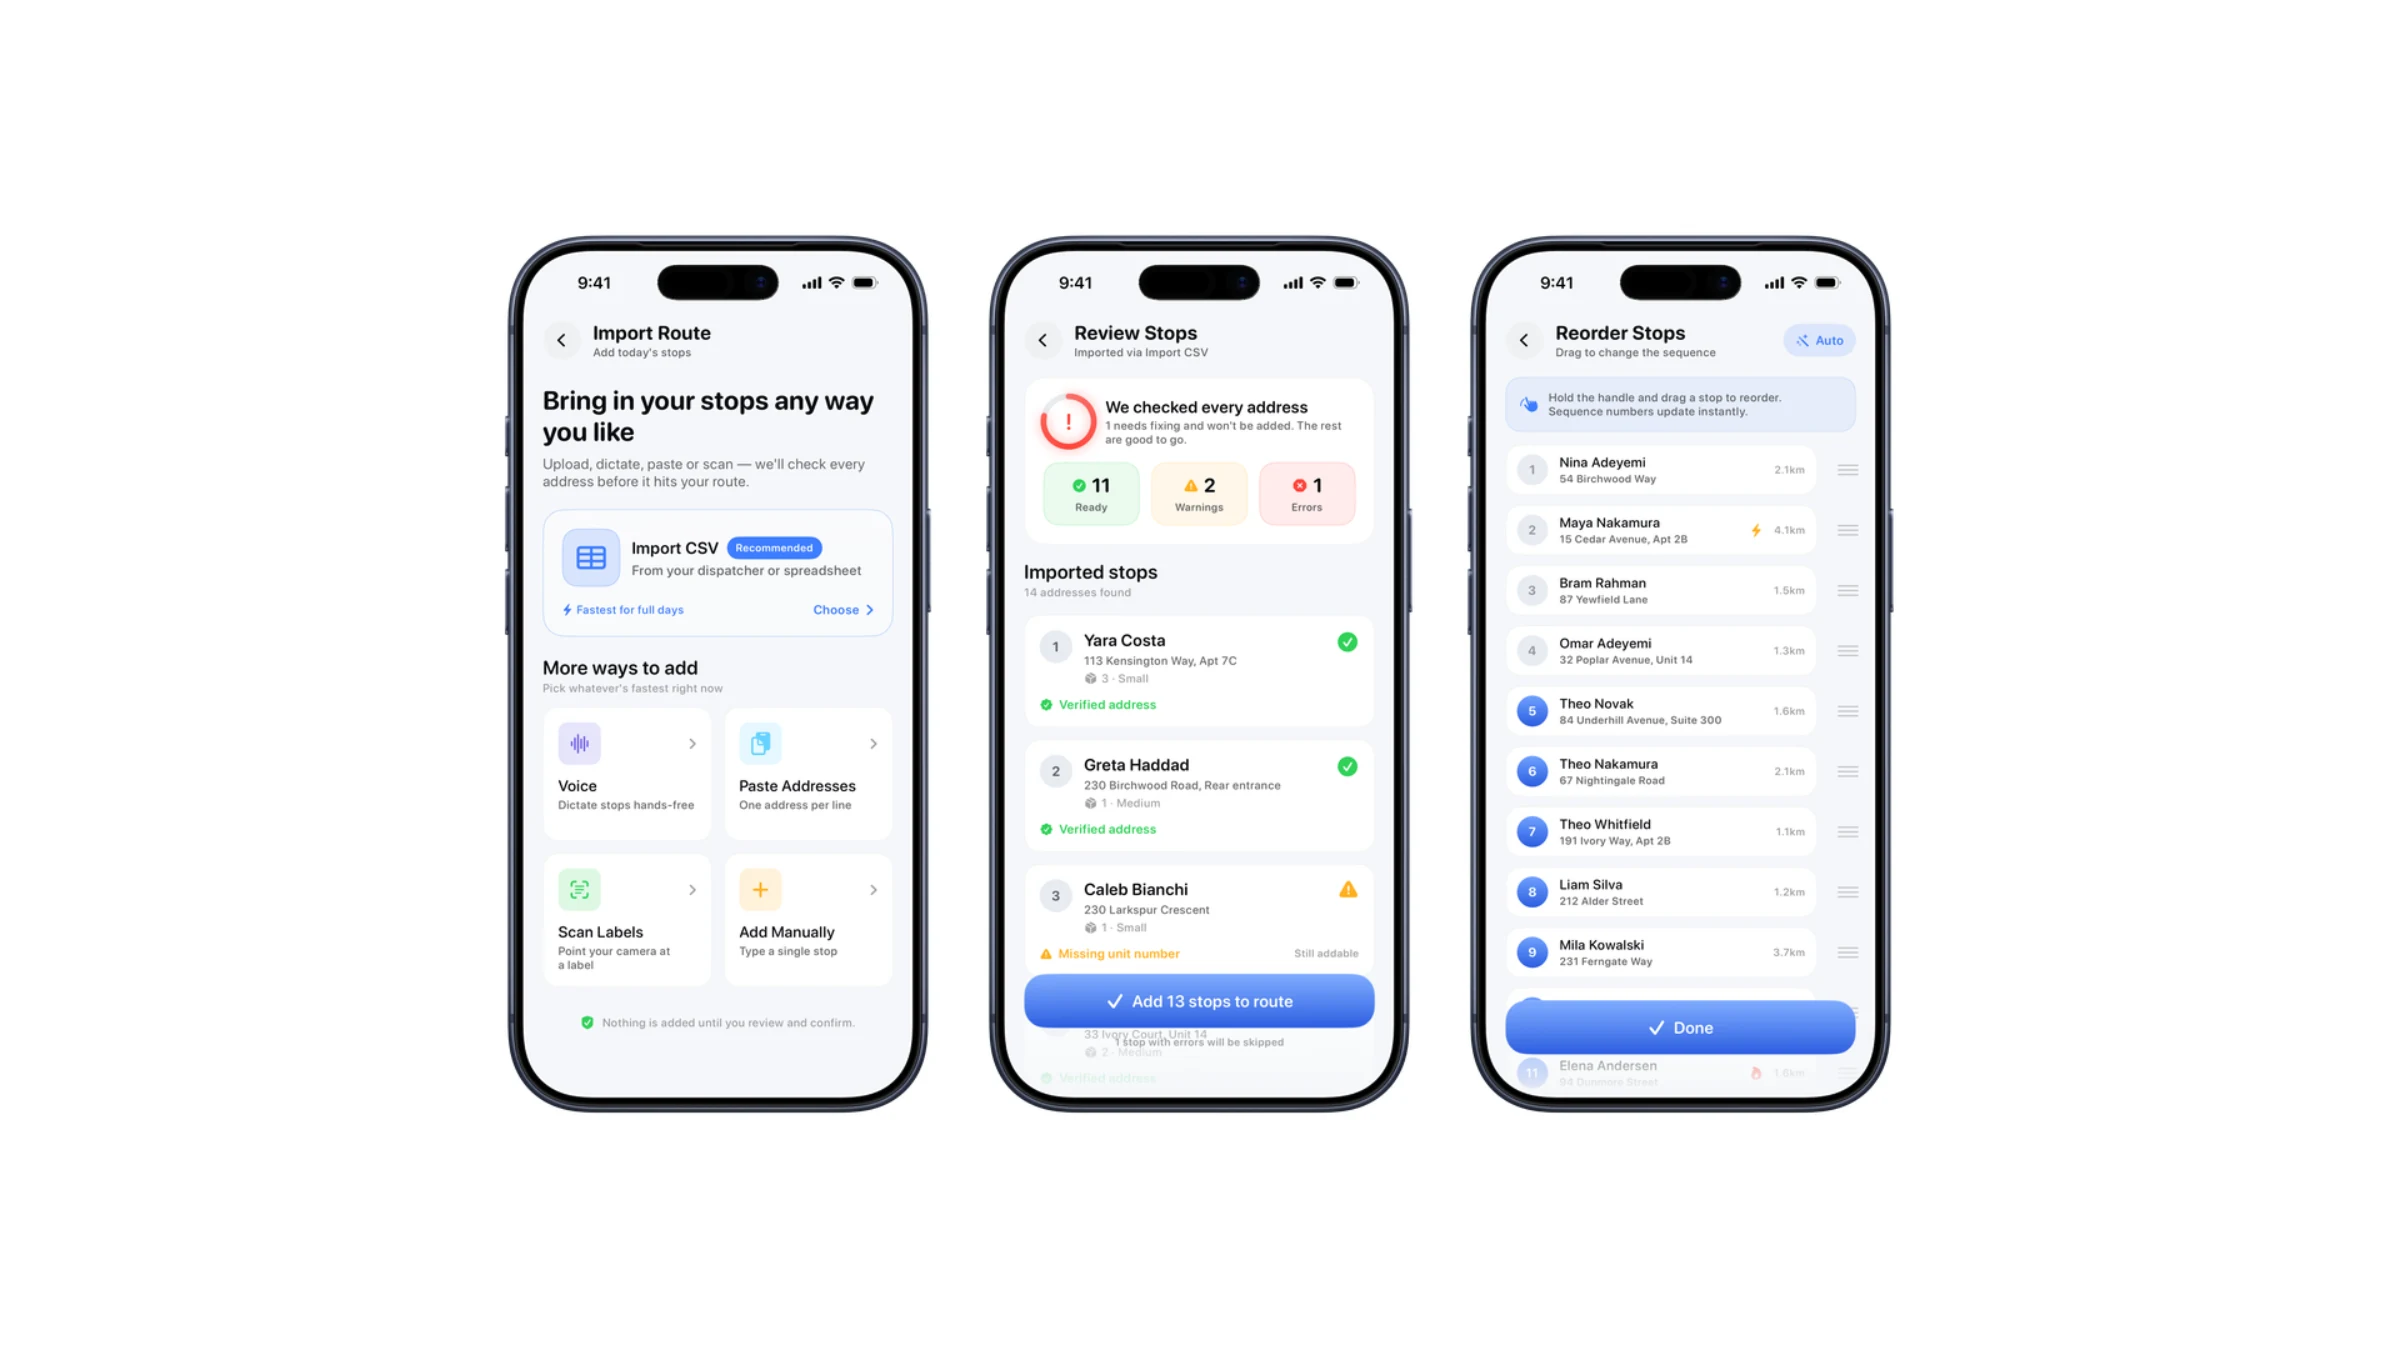
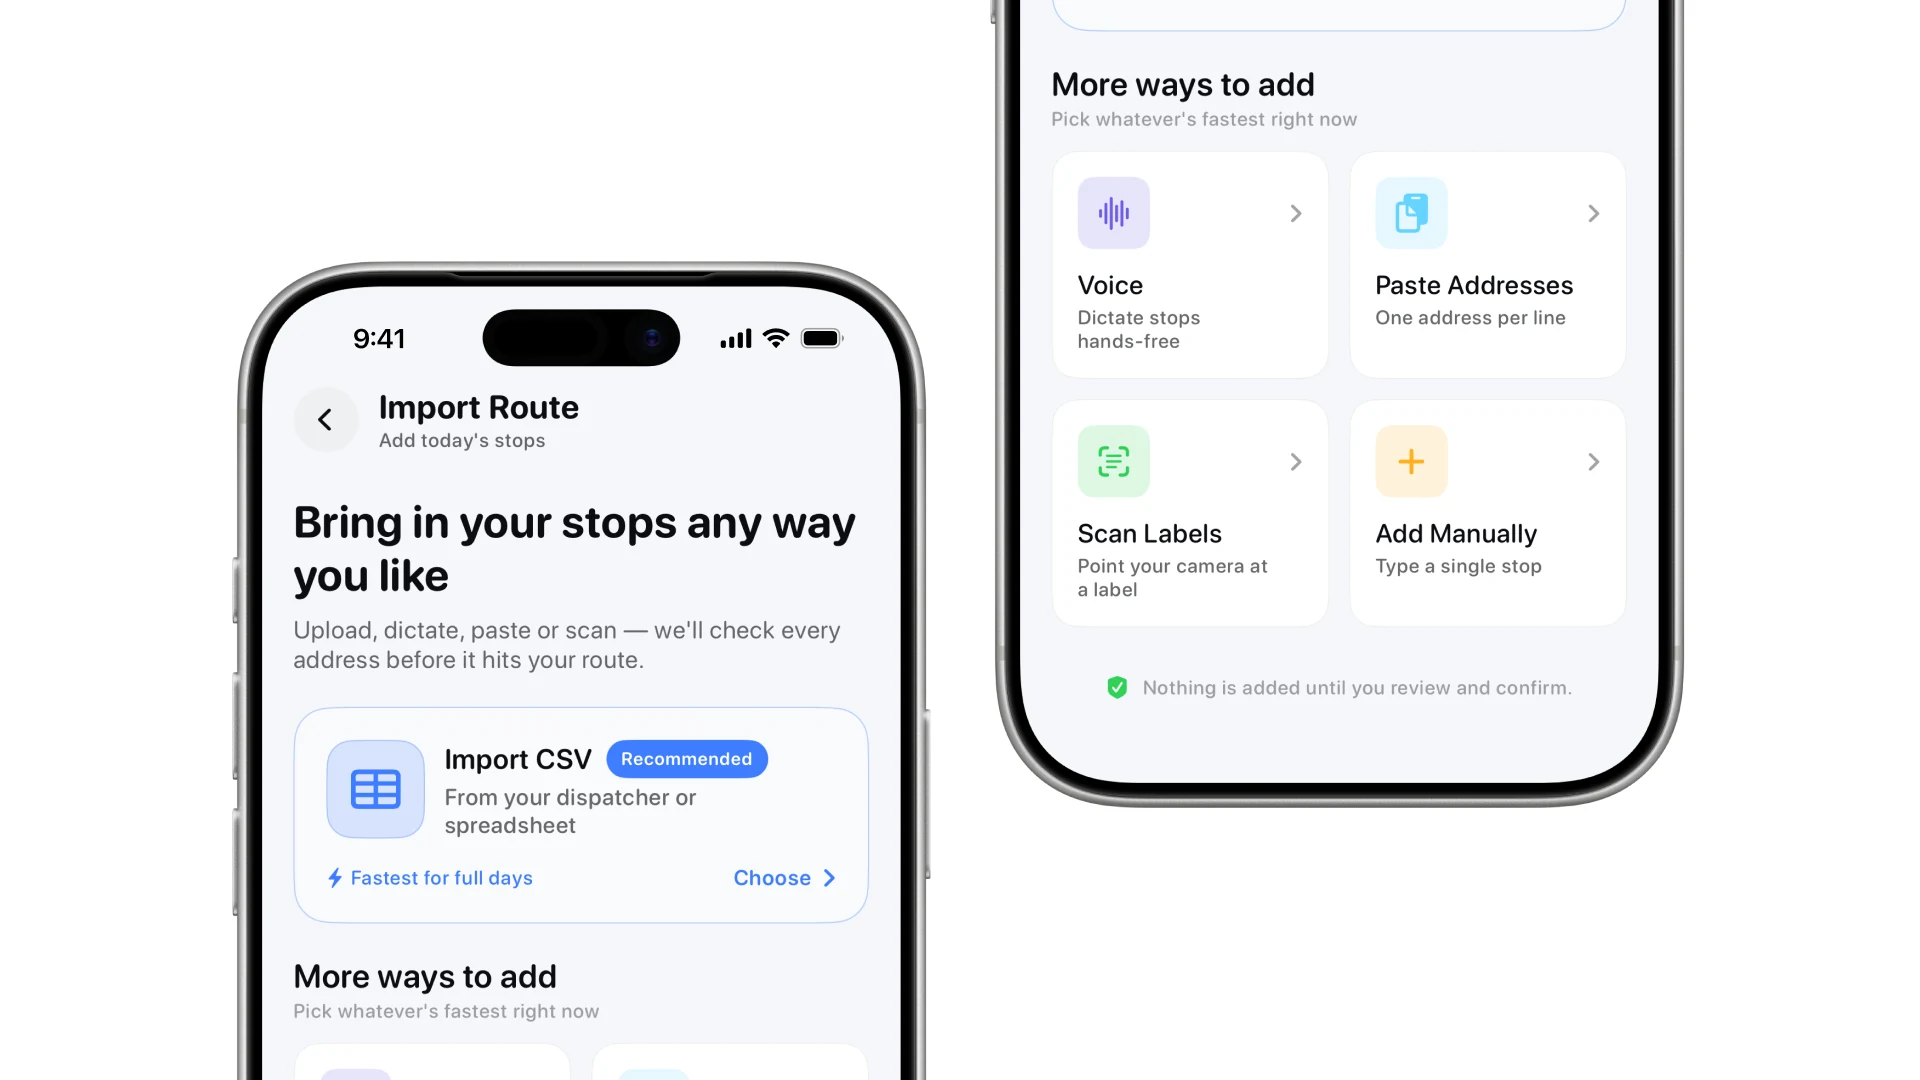
designs: rebuild Route Planner's figures from the new slides
Ten new slides replace the three composites. They are the same screens,
framed better, and they bring what the composites never had: close-ups
of home top and bottom, the stop list, settings on its own, and a real
dark set — home, the tiles, and driving through to the proof sheet. The
two blue renders still open and close the entry.

The old bezels were dark navy and these are silver, so keeping both
would have read as two different sets on one page. Import, drive and
after are gone; what goes with them is the Reorder Stops screen and the
end-of-day Route Complete summary, which nothing in the new set covers.

rp_figures.sh and rp_thumb.py are deleted rather than left lying around.
Nothing on the site is composed from the captures any anymore, and
running either script would have overwritten every figure with the old
look. The captures themselves stay — they are the running app, and
rp_capture.sh still makes them. The screens README says all of this, and
git log has the scripts if the pipeline is ever wanted back.

Changed region(s): [[0.0938, 0.0, 0.875, 1.0]]

diff --git a/designs/route-planner.js b/designs/route-planner.js
@@ -1,5 +1,10 @@
 // ==========================================================================
-//  Route Planner. A design entry — the screens, and a little about them. Prose stays short on purpose.
+//  Route Planner. A design entry — the screens, and a little about them.
+//  Prose stays short on purpose.
+//
+//  Figures: route-planner-assets/ — supplied slides through
+//  tools/prep_figures.py, plus the two blue renders that open and close it.
+//  Nothing here is composed from route-planner-assets/screens/ any more.
 // ==========================================================================
 
 BODY('route-planner', {
@@ -11,26 +16,84 @@ BODY('route-planner', {
       alt: 'Route Planner home, with today\'s route and progress, beside the stop card on the live map',
       caption: 'The day so far, and the stop in front of you.',
     },
-    { t: 'p', x: 'An import that only ever succeeds has not been designed, so this one arrives broken. The route exists only after you have read the middle screen.' },
+
+    { t: 'h2', x: 'Home is the whole day' },
+    { t: 'p', x: 'One screen answers the only two questions a driver has before setting off: how much is left, and when does it end.' },
+    {
+      t: 'image',
+      src: '/route-planner-assets/home.webp',
+      alt: 'The home screen: a greeting, the route drawn on a map, and a progress ring reading 15 per cent with two done and eleven left',
+      caption: 'Today, at the top.',
+    },
+    { t: 'p', x: 'Under it the day is four numbers, the van and its fuel, and one button that carries on where you stopped.' },
+    {
+      t: 'image',
+      src: '/route-planner-assets/home-tiles.webp',
+      alt: 'Stat tiles for stops and duration, the vehicle card with fuel level, and the Resume Route and Import Route buttons',
+      caption: 'Stats, the van, and the way back in.',
+    },
+
+    { t: 'h2', x: 'Getting the stops in' },
+    { t: 'p', x: 'A dispatcher sends a spreadsheet, but a driver at the depot has a label in front of them and both hands full. So there are five ways in, and the fastest one is whichever is fastest right now.' },
     {
       t: 'image',
       src: '/route-planner-assets/import.webp',
-      alt: 'Import Route, the validation review screen, and the drag-to-reorder list',
-      caption: 'Import, review, reorder.',
+      alt: 'The import screen offering CSV, voice, pasted addresses, label scanning and manual entry, with a note that nothing is added until you confirm',
+      caption: 'Five ways in — and nothing is added until you confirm.',
     },
-    { t: 'p', x: 'One map carries the whole drive; only the sheet on top of it changes. Arriving offers both outcomes at the same reach.' },
+    { t: 'p', x: 'Every address is checked before it can join the route, and the ones that fail say what is wrong with them rather than being dropped quietly.' },
     {
       t: 'image',
-      src: '/route-planner-assets/drive.webp',
-      alt: 'The route overview, active navigation, and the arrival sheet',
-      caption: 'Overview, driving, arrived.',
+      src: '/route-planner-assets/review.webp',
+      alt: 'History, settings, and the review screen showing eleven ready, two warnings and one error before adding thirteen stops',
+      caption: 'History, settings, and the check before the route exists.',
     },
-    { t: 'p', x: 'The day ends with a recap, and settings small enough to leave alone.' },
+    { t: 'p', x: 'Then it is a list you can scope — everything, still pending, priority, already delivered — with the next stop held in place.' },
     {
       t: 'image',
-      src: '/route-planner-assets/after.webp',
-      alt: 'The daily summary, history, and settings screens',
-      caption: 'Summary, history, settings.',
+      src: '/route-planner-assets/stops.webp',
+      alt: 'The stop list with All, Pending, Priority and Delivered filters, and the Start Route button',
+      caption: 'The stops, and the button that starts the day.',
+    },
+
+    { t: 'h2', x: 'Driving it' },
+    { t: 'p', x: 'At the stop the card is reachable with a thumb: who it is, how far, and the four things you might need before you get out.' },
+    {
+      t: 'image',
+      src: '/route-planner-assets/arrive.webp',
+      alt: 'The arrival card showing the stop name, distance remaining, call, message, notes and skip, and the Arrive at Stop button',
+      caption: 'Arriving.',
+    },
+
+    { t: 'h2', x: 'Settings, kept small' },
+    { t: 'p', x: 'Three things worth changing and nothing else: what to optimise for, what counts as proof, and how it looks.' },
+    {
+      t: 'image',
+      src: '/route-planner-assets/settings.webp',
+      alt: 'Settings: optimise for fastest, shortest or balanced, traffic awareness, photo and signature proof, and appearance',
+      caption: 'Settings.',
+    },
+
+    { t: 'h2', x: 'Dark' },
+    { t: 'p', x: 'The app is dark-first, and a delivery day mostly starts before it is light.' },
+    {
+      t: 'image',
+      src: '/route-planner-assets/dark-home.webp',
+      alt: 'The same home screen in dark mode, with the route on a dark map',
+      caption: 'Home, dark.',
+    },
+    {
+      t: 'image',
+      src: '/route-planner-assets/dark-tiles.webp',
+      alt: 'The stat tiles and Resume Route button in dark mode',
+      caption: 'And the tiles under it.',
+    },
+    { t: 'p', x: 'Driving, delivering and looking back all hold together in it — the proof sheet is where a theme usually falls apart.' },
+    {
+      t: 'image',
+      src: '/route-planner-assets/dark-drive.webp',
+      alt: 'Dark mode navigation, the delivery proof sheet with photo and signature, and the history screen',
+      caption: 'Driving, delivering, and the week behind you.',
     },
     { t: 'p', x: 'The map, the route line and the accent survive the switch. Only the surfaces move.' },
     {

diff --git a/route-planner-assets/screens/README.md b/route-planner-assets/screens/README.md
@@ -2,18 +2,22 @@
 
 Every screen used by the case study, captured 2× (1206 × 2622) from the running
 SwiftUI app on an iPhone 17 Pro simulator with the status bar frozen at 9:41.
-Most of the 16:9 composites in `route-planner-assets/*.webp` are built from
-these files — the individual captures are the real deliverable. The exceptions
-are `hero.webp`, `dark.webp` and `thumb.webp`, which are supplied renders on a
-blue ground rather than bezels on white; `rp_figures.sh` skips those three, and
-`theme.webp` is gone because `dark.webp` replaced it.
+**None of the figures on the site are composed from these files any more.**
+Every figure in `route-planner-assets/*.webp` is now a supplied slide, prepared
+with `tools/prep_figures.py` — the same screens, framed better, plus close-ups
+and a full dark set that the composites never had. `tools/rp_figures.sh` and
+`tools/rp_thumb.py` are deleted rather than left lying around, because running
+either one would have overwritten every figure with the old look; `git log` has
+them if the capture pipeline is ever wanted back.
+
+These captures are still the real deliverable and still worth keeping: they are
+the running app, and `rp_capture.sh` still regenerates them.
 
 Regenerate:
 
 ```bash
 tools/rp_capture.sh light
 tools/rp_capture.sh dark
-tools/rp_figures.sh      # composes the figures and the card thumbnail
 ```
 
 **The app is dark-first**, so `dark/` is the primary set — every figure except
